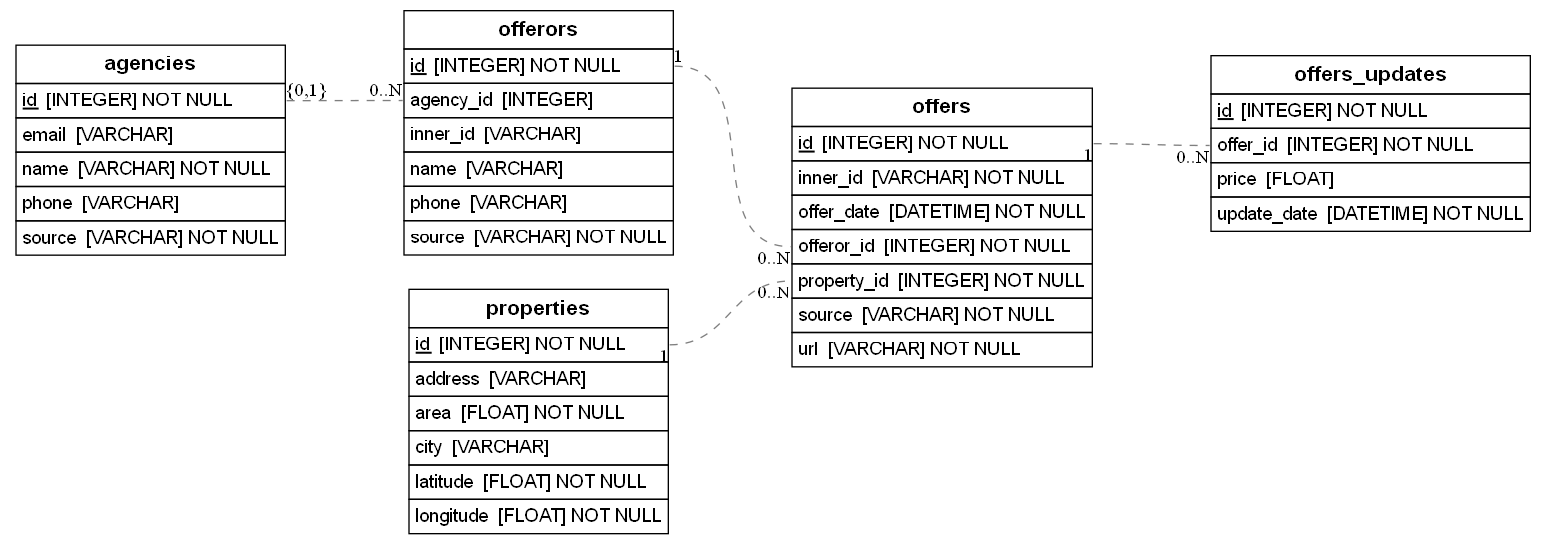
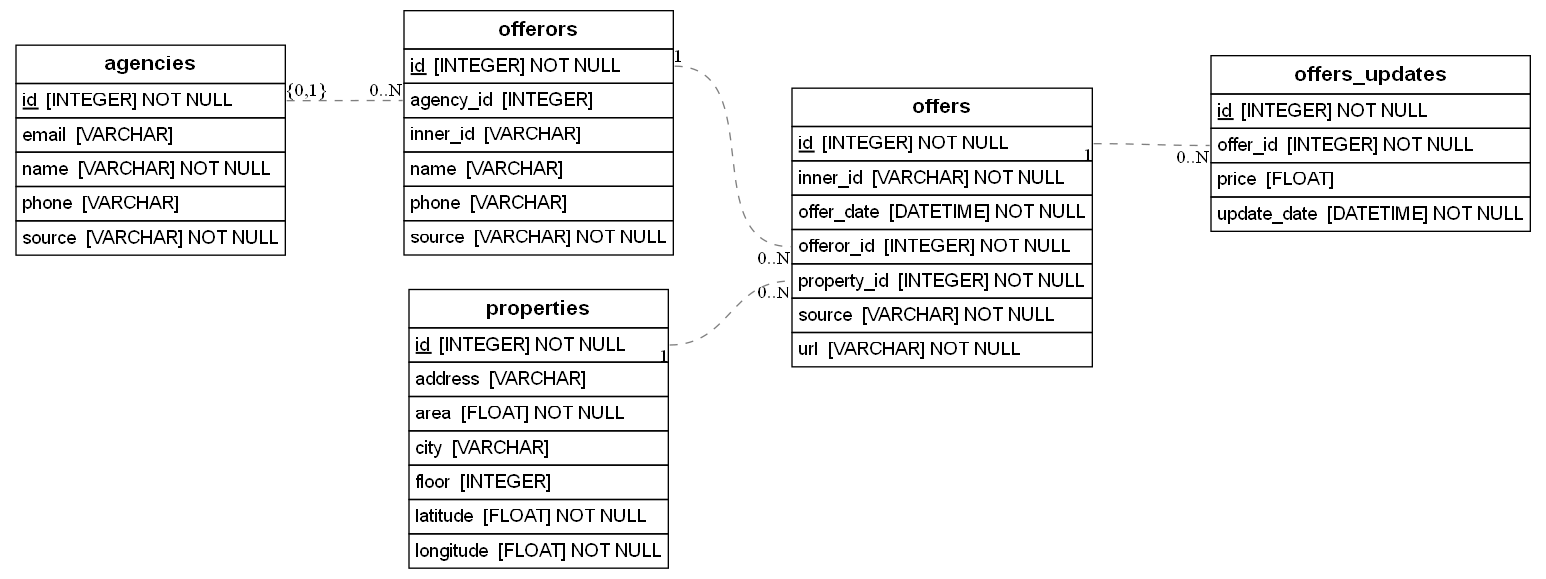
Added floor information

Changed region(s): [[0.0, 0.0, 0.4347, 1.0], [0.4657, 0.125, 0.7141, 0.6875], [0.7451, 0.0938, 0.9935, 0.4375]]

diff --git a/scrapers/olx_scraper/olx_scraper.py b/scrapers/olx_scraper/olx_scraper.py
@@ -73,7 +73,7 @@ def extract_data_from_offers(urls):
             if not details:
                 continue
 
-            price, id, username, offeror_type, offeror_id, area, latitude, longitude = details
+            price, id, username, offeror_type, offeror_id, area, latitude, longitude, floor = details
             extracted_data.append({
                 'url': url,
                 'id': id,
@@ -82,6 +82,7 @@ def extract_data_from_offers(urls):
                 'offeror_id': offeror_id,
                 'price': price,
                 'area': area,
+                'floor': floor,
                 'latitude': latitude,
                 'longitude': longitude
             })
@@ -95,14 +96,12 @@ def get_offer_details(url):
     res = requests.get(url, headers=HEADERS)
     soup = bs.BeautifulSoup(res.text, 'lxml')
 
-    price, id, username, offeror_type, offeror_id, area, latitude, longitude = (0, '', '', '', '', 0, 0, 0)
+    price, id, username, offeror_type, offeror_id, area, latitude, longitude, floor = (0, '', '', '', '', 0, 0, 0, 0)
     if url.startswith(OLX_BASE_URL):
         price_container = soup.find('div', {'data-testid': "ad-price-container"})
-        if price_container is None:
-            return False
-
-        price = price_container.h3.text
-        price = float(''.join(price.rstrip('zł ').replace(',', '.').split()))
+        if price_container is not None:
+            price = price_container.h3.text
+            price = float(''.join(price.rstrip('zł ').replace(',', '.').split()))
 
         parameters_container = soup.find('div', {'data-testid': "ad-parameters-container"})
         if parameters_container is None:
@@ -114,6 +113,11 @@ def get_offer_details(url):
 
         area_text = area_element.text.replace(',', '.')
         area = float(''.join([c for c in area_text if (c.isdigit() or c == '.') and c != '²']))
+
+        floor_element = parameters_container.find('p', string=lambda x: x and 'Poziom:' in x)
+        if floor_element:
+            floor = floor_element.text.replace('Poziom: ', '')
+            floor = int(floor) if floor.isdecimal() else 0
 
         username_element = soup.find('h4', {'data-testid': 'user-profile-user-name'})
         if not username_element:
@@ -157,10 +161,10 @@ def get_offer_details(url):
         latitude = map_data.get('lat', 0)
         longitude = map_data.get('lon', 0)
 
-    if not any((price, id, offeror_type, offeror_id, username, area, latitude, longitude)):
+    if not any((price, id, offeror_type, offeror_id, username, area, latitude, longitude, floor)):
         return False
 
-    return price, id, username, offeror_type, offeror_id, area, latitude, longitude
+    return price, id, username, offeror_type, offeror_id, area, latitude, longitude, floor
 
 def scrape_details_from_url(ulr, page_limit=100000):
     urls = get_all_offers_from_url(ulr, page_limit)

diff --git a/scrapers/morizon_scraper/morizon_parser.py b/scrapers/morizon_scraper/morizon_parser.py
@@ -10,7 +10,7 @@ def _parse_number(value: str) -> float:
 
 def parse_morizon_property_data(data_dict: dict) -> OfferDataSchema:
     property_data = data_dict.get('data', {}).get('propertyData', {})
-    company_name, company_phone, offeror_name, offeror_phone = None, None, None, None
+    company_name, company_phone, offeror_name, offeror_phone, floor = None, None, None, None, None
 
     if not property_data:
          raise Exception("Property data not found")
@@ -40,6 +40,12 @@ def parse_morizon_property_data(data_dict: dict) -> OfferDataSchema:
     if price_val:
         price_val = _parse_number(price_val.get('amount'))
 
+    floor_val = property_data.get('floorFormatted')
+    if floor_val:
+        floor_val = floor_val.split("/")[0]
+        floor = 0 if floor_val == "parter" else int(floor_val.split()[-1])
+
+
     property_instance_data = {
         "inner_id": str(id_val),
         "url": url_val,
@@ -49,6 +55,7 @@ def parse_morizon_property_data(data_dict: dict) -> OfferDataSchema:
         'agency_name': company_name,
         'agency_phone': company_phone,
         "city": city_val,
+        'floor': floor,
         "address": address_val,
         "price": price_val,
         "area": area_val,

diff --git a/db/database.py b/db/database.py
@@ -42,6 +42,7 @@ def add_property(property_data: OfferDataSchema, session: SessionLocal):
             address=property_data.address,
             city=property_data.city,
             area=property_data.area,
+            floor=property_data.floor,
             latitude=property_data.latitude,
             longitude=property_data.longitude
         )

diff --git a/scrapers/olx_scraper/olx_parser.py b/scrapers/olx_scraper/olx_parser.py
@@ -7,6 +7,7 @@ def parse_olx_property_data(data_dict: dict) -> OfferDataSchema:
         "url": data_dict['url'],
         "offeror_name": data_dict['username'],
         "offeror_id": data_dict['offeror_id'],
+        'floor': data_dict['floor'],
         "source": "OLX",
         "price": data_dict['price'],
         "area": data_dict['area'],

diff --git a/db/models/property.py b/db/models/property.py
@@ -7,6 +7,7 @@ class Property(Base):
     id = Column(Integer, autoincrement=True, primary_key=True)
 
     area = Column(Float, nullable=False)
+    floor = Column(Integer, nullable=True)
     latitude = Column(Float, nullable=False)
     longitude = Column(Float, nullable=False)
     city = Column(String, nullable=True)

diff --git a/schemas/offer_data_schema.py b/schemas/offer_data_schema.py
@@ -20,6 +20,7 @@ class OfferDataSchema(BaseModel):
     address: Optional[str] = None
     price: Optional[float] = None
     area: float
+    floor: Optional[float] = None
     latitude: float
     longitude: float
 
